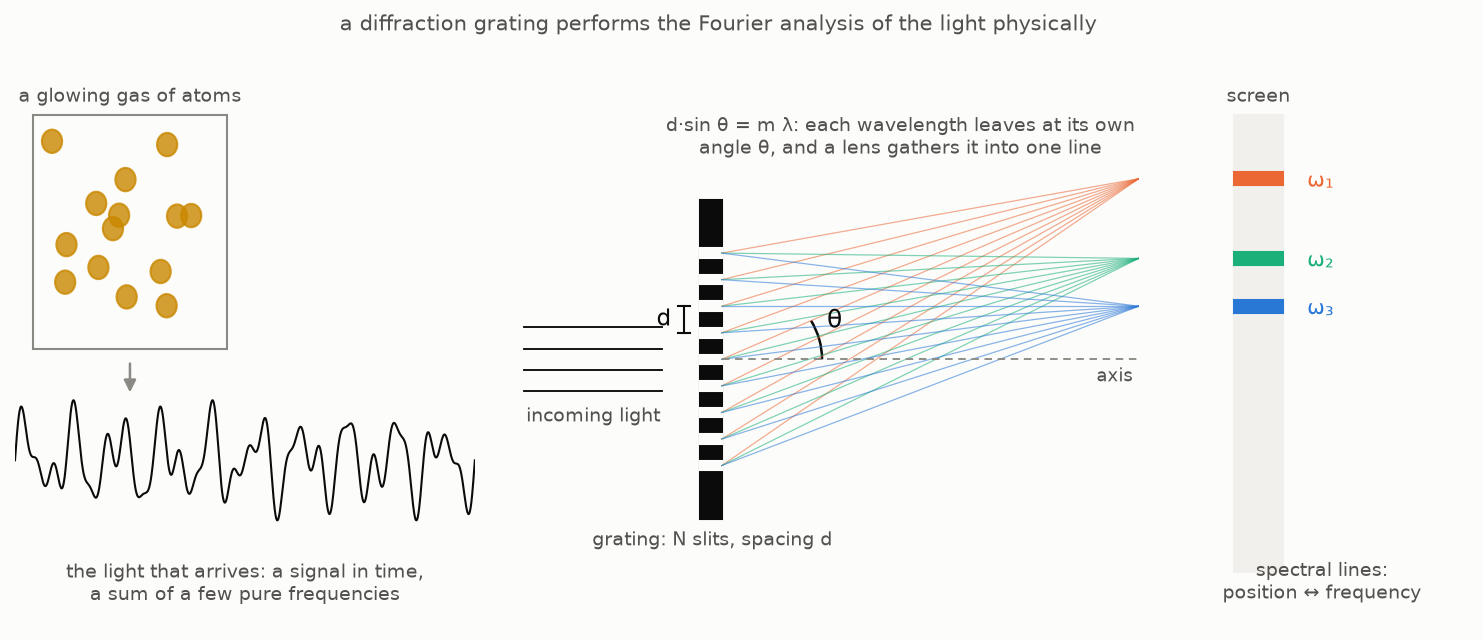
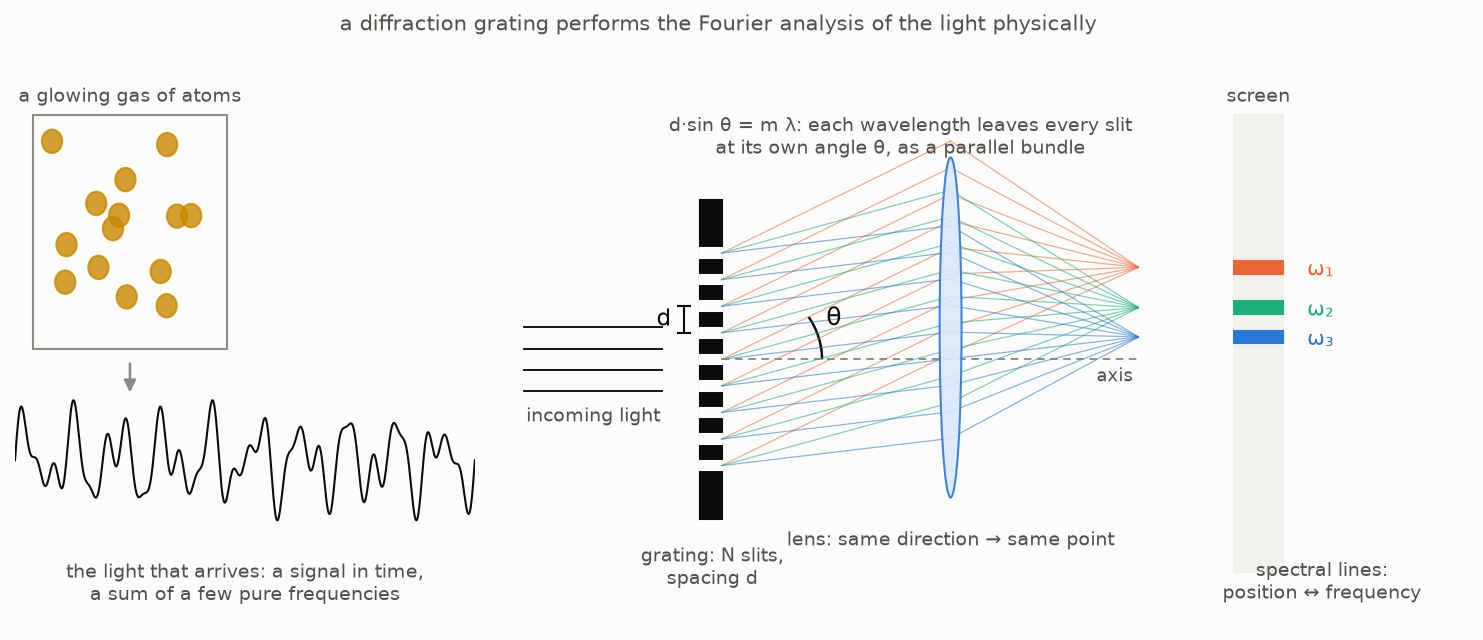
QM-3 draft: grating figure with a lens; the cut says what focuses the parallel bundles

diff --git a/content/posts/observables-and-the-born-rule/index.md b/content/posts/observables-and-the-born-rule/index.md
@@ -119,8 +119,11 @@ of them, and in the direction at angle $\theta$ the waves from
 neighbouring slits arrive with a path difference $d \sin\theta$. They
 add up in phase only if that difference is a whole number of
 wavelengths, $d \sin\theta = m\lambda$ — so each wavelength leaves the
-grating at its own angle, and a mixture of wavelengths is spread into
-a fan. The lines are sharp because the contributions of the $N$ slits
+grating at its own angle, as a bundle of parallel rays, and a mixture
+of wavelengths is spread into a fan. The grating itself does not
+bring the bundle to a point — parallel rays stay parallel; a lens
+behind it (or the eye's own lens, when one looks through a grating)
+does that, sending every direction to one point of its focal plane. The lines are sharp because the contributions of the $N$ slits
 form a finite geometric series, $\sum_{n} e^{\,i n \cdot 2\pi d \sin\theta / \lambda}$,
 the same series that made the DFT of Part 2 peak at the right bin; its
 peak has width about $\lambda / N d$, and gratings have thousands of
